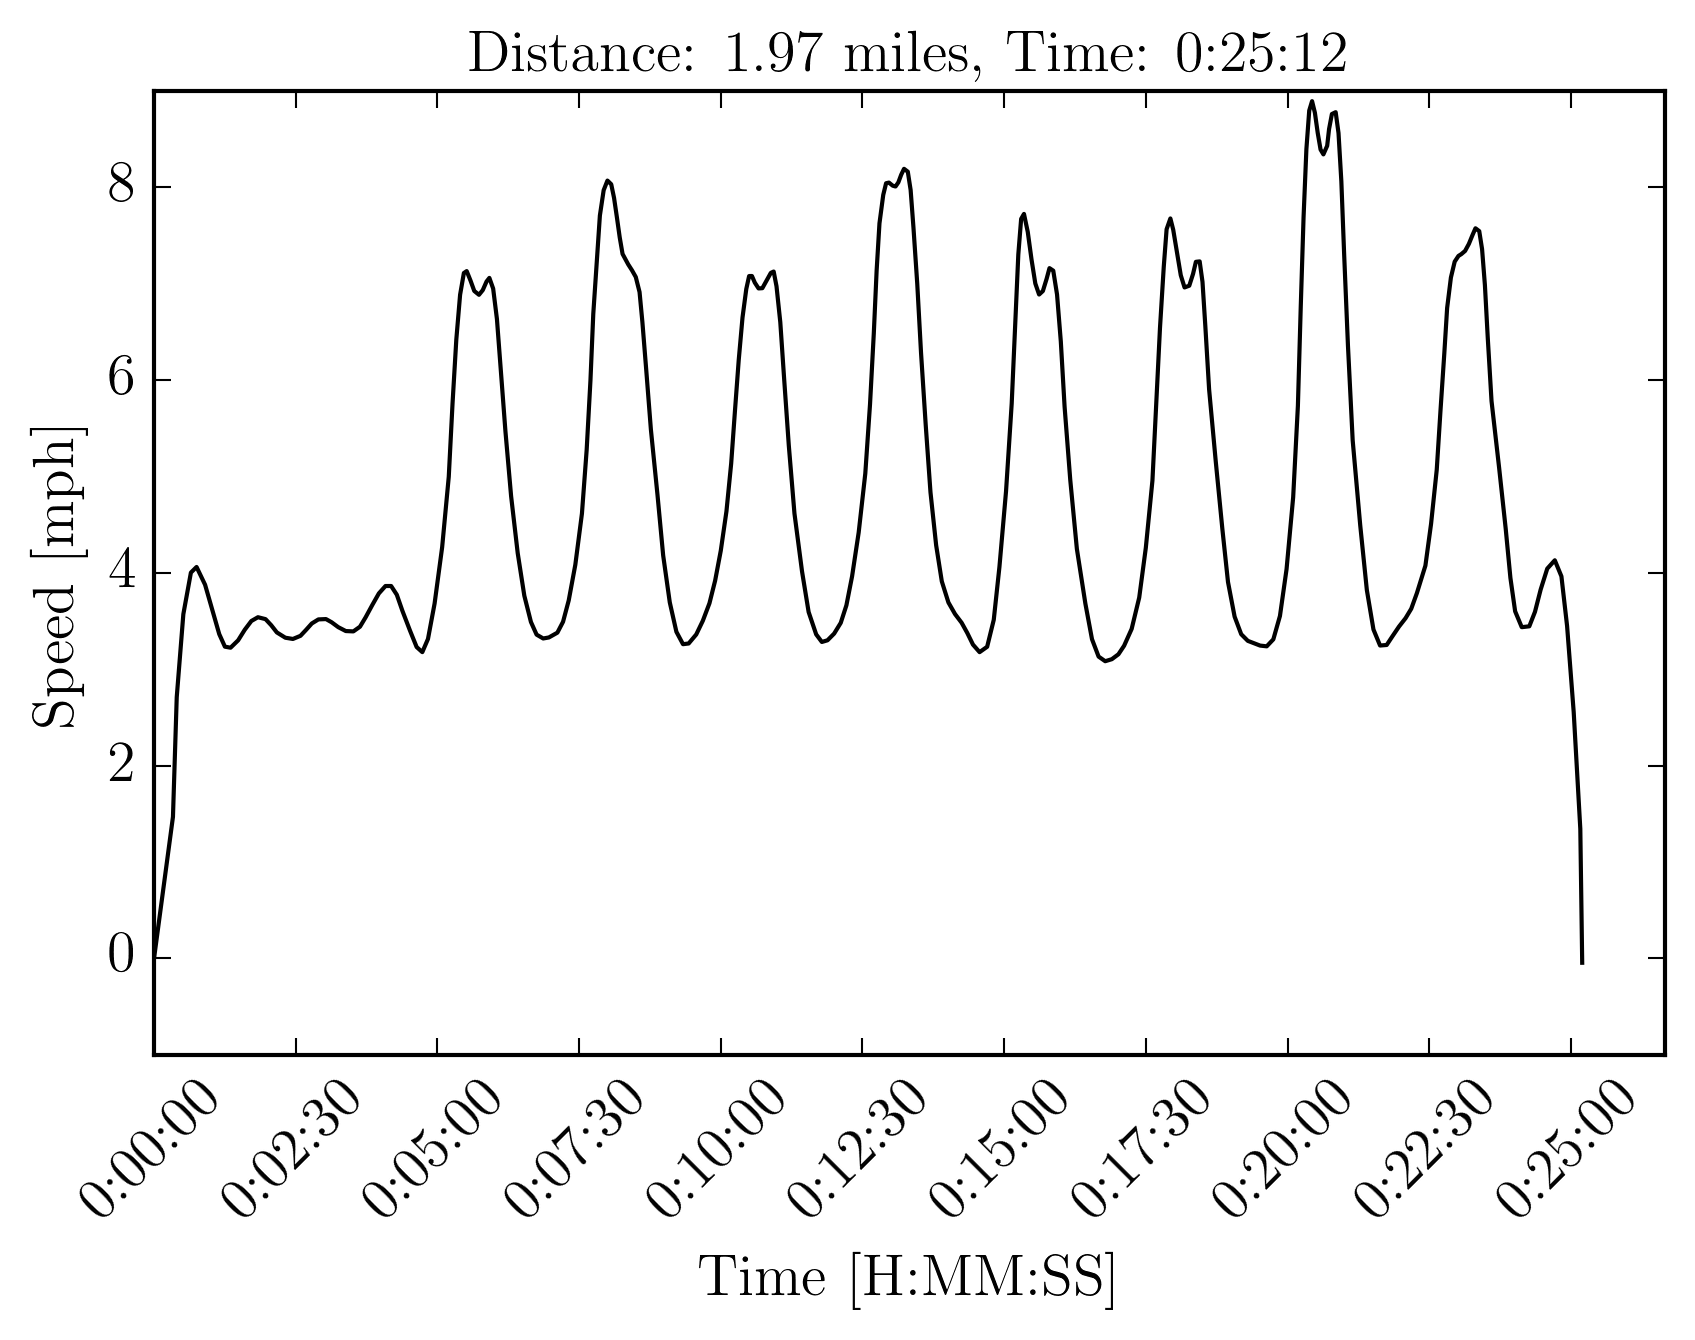
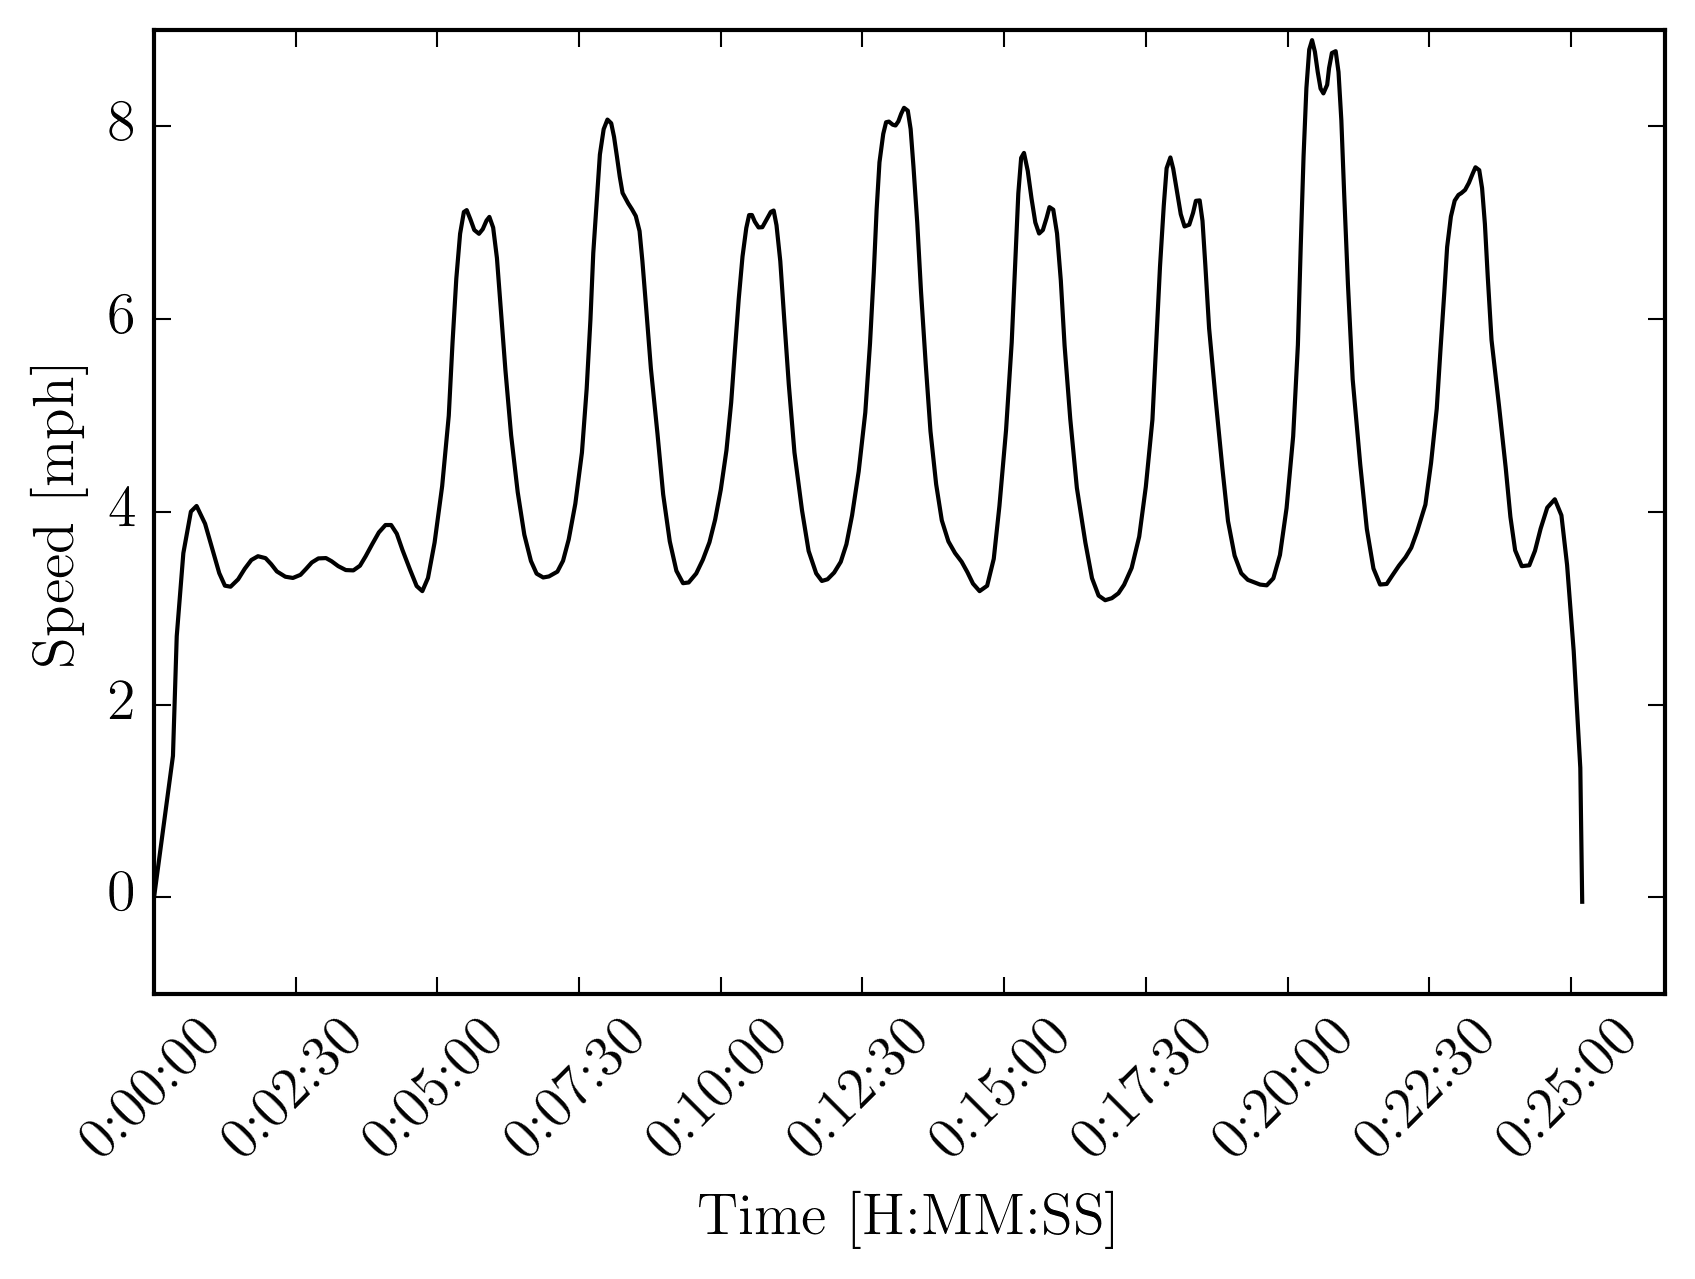
Added speed track plotting atop a map

diff --git a/GPX_Plotter/gpx_plotter.py b/GPX_Plotter/gpx_plotter.py
@@ -8,11 +8,12 @@ from matplotlib import cm, colors, ticker, rc
 import numpy as np
 import pylab
 
+################################################################################
 # Set plot aspect ratio to 'the golden ratio.'
 fig_width     = 6.5
 golden_ratio  = (np.sqrt(5)-1.0)/2.0
 fig_height    = fig_width*golden_ratio
-fig_size      =  [fig_width,fig_height]
+fig_size      = [fig_width,fig_height]
 fig_font_size = 14
 
 rc('font', **{'family': 'serif', 'serif': ['Computer Modern']})
@@ -35,11 +36,13 @@ params        = { 'axes.labelsize' : fig_font_size,
 
 pylab.rcParams.update(params)  
 
+################################################################################
 # Conversion constants.
 class constants:
     meters2feet = 1 / 0.3048 # Convert meters -> feet
     EarthRad = 3959 # feet
 
+################################################################################
 # Smoothing functions.
 # See: http://stackoverflow.com/questions/28536191/how-to-filter-smooth-with-scipy-numpy
 from scipy.signal import butter, filtfilt
@@ -55,6 +58,7 @@ def butter_lowpass_filtfilt(data, cutoff, fs, order=5):
     y = filtfilt(b, a, data)
     return y
  
+################################################################################
 # Import RunKeeper GPX raw data.
 def importGPX(infilename):
     import xml.etree.ElementTree
@@ -124,6 +128,180 @@ def processRawTrack(rawtrk):
 
     return(trk)
 
+def plotElevation(trk, smoothed=True,
+                    xlabel='Time [H:MM:SS]', ylabel='Elevation [feet]'):
+    import datetime
+    plt.figure()
+    ax = plt.gca()
+
+    x = [t['elap'] for t in trk]
+    y = [t['ele'] for t in trk]
+    f = butter_lowpass_filtfilt(y, 5000, 50000)
+
+    plt.xlabel(xlabel)
+    plt.ylabel(ylabel)
+
+#   d = [t['s'] for t in trk]
+#   d = '{:.2f}'.format(sum(d))
+#   plt.title('Distance: {:} miles, Time: {:}'.format(d, datetime.timedelta(seconds=x[-1])))
+
+    if(smoothed):
+        plt.plot(x, f, 'k-')
+    else:
+        plt.plot(x, y, 'r-')
+
+    plt.xticks(np.arange(min(x), max(x)+1, 150.0))
+
+    def timeTicks(x, pos):                                                                                                                                                                                                                                                         
+        d = datetime.timedelta(seconds=x)                                                                                                                                                                                                                                          
+        return str(d)                                                                                                                                                                                                                                                              
+    formatter = matplotlib.ticker.FuncFormatter(timeTicks)                                                                                                                                                                                                                         
+    ax.xaxis.set_major_formatter(formatter)  
+    for tick in ax.get_xticklabels():
+        tick.set_rotation(45)
+
+    return(plt)
+
+def plotSpeed(trk, smoothed=True,
+                    xlabel='Time [H:MM:SS]', ylabel='Speed [mph]'):
+    import datetime
+    plt.figure()
+    ax = plt.gca()
+
+    x = [t['elap'] for t in trk]
+    y = [t['ds'] for t in trk]
+    f = butter_lowpass_filtfilt(y, 5000, 50000)
+
+    plt.xlabel(xlabel)
+    plt.ylabel(ylabel)
+
+#   d = [t['s'] for t in trk]
+#   d = '{:.2f}'.format(sum(d))
+#   plt.title('Distance: {:} miles, Time: {:}'.format(d, datetime.timedelta(seconds=x[-1])))
+
+    if(smoothed):
+        plt.plot(x, f, 'k-')
+    else:
+        plt.plot(x, y, 'r-')
+ 
+    plt.xticks(np.arange(min(x), max(x)+1, 150.0))
+
+    def timeTicks(x, pos):                                                                                                                                                                                                                                                         
+        d = datetime.timedelta(seconds=x)                                                                                                                                                                                                                                          
+        return str(d)                                                                                                                                                                                                                                                              
+    formatter = matplotlib.ticker.FuncFormatter(timeTicks)                                                                                                                                                                                                                         
+    ax.xaxis.set_major_formatter(formatter)  
+    for tick in ax.get_xticklabels():
+        tick.set_rotation(45)
+
+    return(plt)
+
+def getOSM(xmin, xmax, ymin, ymax):
+    import math
+    import os
+    import shutil
+    import urllib.request
+
+    zoom = 17
+    def deg2num(lon, lat, zoom):
+        lat_rad = math.radians(lat)
+        n = 2.0 ** zoom
+        xtile = int((lon + 180.0) / 360.0 * n)
+        ytile = int((1.0 - math.log(math.tan(lat_rad) + (1 / math.cos(lat_rad))) / math.pi) / 2.0 * n)
+        return (xtile, ytile, zoom)
+    def num2deg(xtile, ytile, zoom):
+        n = 2.0 ** zoom
+        lon = xtile / n * 360.0 - 180.0
+        lat_rad = math.atan(math.sinh(math.pi * (1 - 2 * ytile / n)))
+        lat = math.degrees(lat_rad)
+        return (lon, lat)
+
+    x, y, z = deg2num(xmin, ymax, zoom)
+    xmin, ymax = num2deg(x, y, z)        
+    xtmin = x; ytmin = y
+    x, y, z = deg2num(xmax, ymin, zoom)
+    xmax, ymin = num2deg(x+1, y+1, z)        
+    xtmax = x+1; ytmax = y+1
+
+    mapname = 'map_{:}_{:}-{:}_{:}-{:}.png'.format(zoom, xtmin, xtmax, ytmin, ytmax)
+
+    ar = (ytmax-ytmin)/(xtmax-xtmin)
+     
+    if(not os.path.exists(mapname)):
+        # Retreive images from OpenStreetMap.org
+        i = 1
+        for y in range(ytmin, ytmax):
+            for x in range(xtmin, xtmax):
+                url = 'http://a.tile.openstreetmap.org/'+str(z)+'/'+str(x)+'/'+str(y)+'.png'
+                subfilename = 'submap-{i:02d}-{x:d}-{y:d}.png'.format(i=i,x=x,y=y)
+                with urllib.request.urlopen(url) as response, open(subfilename, 'wb') as out_file:
+                    shutil.copyfileobj(response, out_file)
+                i = i + 1
+
+        # Composite together images.
+        cmd = '/sw/bin/montage submap*.png -tile 5x -geometry 256x256+0+0 ' + mapname
+        os.popen(cmd).read()
+
+        # Remove submaps.
+        os.popen('rm submap*png').read()
+
+    return(xmin, xmax, ymin, ymax, mapname, ar)
+ 
+def plotSpeedMap(trk, smoothed=True):
+    import datetime
+    from matplotlib.collections import LineCollection
+    from matplotlib.colors import ListedColormap
+    import matplotlib.image as mpimg
+
+
+    x = [t['lon'] for t in trk]
+    y = [t['lat'] for t in trk]
+    z = [t['ds'] for t in trk]
+    f = butter_lowpass_filtfilt(z, 5000, 50000)
+
+    pts = np.array([x, y]).T.reshape(-1,1,2)
+    segments = np.hstack([pts[:-1], pts[1:]])     
+    
+    coll = LineCollection(segments, cmap=plt.cm.jet, linewidth=2)
+
+    f = f/np.max(f)
+    coll.set_array(f)
+
+    # Get extents based on the track.
+    xmin = min(x); xmax = max(x)
+    ymin = min(y); ymax = max(y)
+    xdel = xmax - xmin
+    ydel = ymax - ymin
+    xmin = xmin - 0.05 * xdel; xmax = xmax + 0.05 * xdel
+    ymin = ymin - 0.05 * ydel; ymax = ymax + 0.05 * ydel
+
+    # Get new extents based on OSM's tiling, to ensure alignment.
+    xmin, xmax, ymin, ymax, mapname, ar = getOSM(xmin, xmax, ymin, ymax)
+
+    plt.figure()
+    ax = plt.gca()
+    ax.set_aspect(ar)
+
+    img = mpimg.imread(mapname)
+
+    implt = plt.imshow(img, zorder=0, extent=[xmin, xmax, ymin, ymax], aspect=ar, alpha=0.5) 
+    ax.add_collection(coll)
+
+    # Final reset of the extents to focus on the track despite OSM's tiling.
+    xmin = min(x); xmax = max(x)
+    ymin = min(y); ymax = max(y)
+    xdel = xmax - xmin
+    ydel = ymax - ymin
+    xmin = xmin - 0.05 * xdel; xmax = xmax + 0.05 * xdel
+    ymin = ymin - 0.05 * ydel; ymax = ymax + 0.05 * ydel
+ 
+    plt.xlim([xmin, xmax])
+    plt.ylim([ymin, ymax])
+ 
+    ax.set_xticks([])
+    ax.set_yticks([])
+    return(plt)
+ 
 ################################################################################
 # Command line options.
 ################################################################################
@@ -154,68 +332,13 @@ if(__name__ == '__main__' and hasattr(main, '__file__')):
 rawtrk = importGPX(infilename)
 trk = processRawTrack(rawtrk)
 
-# Plot elevation data.
 if(args.elevation):
-    import datetime
-    plt.figure()
-    ax = plt.gca()
-
-    x = [t['elap'] for t in trk]
-    y = [t['ele'] for t in trk]
-    f = butter_lowpass_filtfilt(y, 5000, 50000)
-
-    plt.xlabel('Time [H:MM:SS]')
-    plt.ylabel('Elevation [feet]')
-
-    d = [t['s'] for t in trk]
-    d = '{:.2f}'.format(sum(d))
-    plt.title('Distance: {:} miles, Time: {:}'.format(d, datetime.timedelta(seconds=x[-1])))
-
-#   plt.plot(x, y, 'r-')
-    plt.plot(x, f, 'k-')
-
-    plt.xticks(np.arange(min(x), max(x)+1, 150.0))
-
-    def timeTicks(x, pos):                                                                                                                                                                                                                                                         
-        d = datetime.timedelta(seconds=x)                                                                                                                                                                                                                                          
-        return str(d)                                                                                                                                                                                                                                                              
-    formatter = matplotlib.ticker.FuncFormatter(timeTicks)                                                                                                                                                                                                                         
-    ax.xaxis.set_major_formatter(formatter)  
-    for tick in ax.get_xticklabels():
-        tick.set_rotation(45)
-
+    plt = plotElevation(trk)
     plt.savefig(infilename + '_elevation.png', dpi=300)
-
-# Plot speed data.
 if(args.speed):
-    import datetime
-    plt.figure()
-    ax = plt.gca()
-
-    x = [t['elap'] for t in trk]
-    y = [t['ds'] for t in trk]
-    f = butter_lowpass_filtfilt(y, 5000, 50000)
-
-    plt.xlabel('Time [H:MM:SS]')
-    plt.ylabel('Speed [mph]')
-
-    d = [t['s'] for t in trk]
-    d = '{:.2f}'.format(sum(d))
-    plt.title('Distance: {:} miles, Time: {:}'.format(d, datetime.timedelta(seconds=x[-1])))
- 
-#   plt.plot(x, y, 'r-')
-    plt.plot(x, f, 'k-')
-
-    plt.xticks(np.arange(min(x), max(x)+1, 150.0))
-
-    def timeTicks(x, pos):                                                                                                                                                                                                                                                         
-        d = datetime.timedelta(seconds=x)                                                                                                                                                                                                                                          
-        return str(d)                                                                                                                                                                                                                                                              
-    formatter = matplotlib.ticker.FuncFormatter(timeTicks)                                                                                                                                                                                                                         
-    ax.xaxis.set_major_formatter(formatter)  
-    for tick in ax.get_xticklabels():
-        tick.set_rotation(45)
-
+    plotSpeed(trk)
     plt.savefig(infilename + '_speed.png', dpi=300)
 
+plotSpeedMap(trk)
+plt.savefig(infilename + '_speedmap.png', dpi=500)
  
